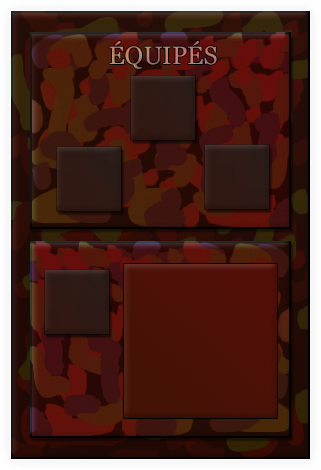
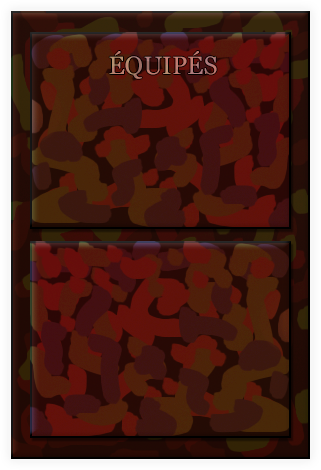
Inventaire amélioré et schlass de qualité
inventory mejorado and schlass muy guapo

diff --git a/core/src/utilities/AnimationTable.java b/core/src/utilities/AnimationTable.java
@@ -6,6 +6,7 @@ import com.badlogic.gdx.graphics.g2d.Batch;
 import com.badlogic.gdx.graphics.g2d.TextureRegion;
 import com.badlogic.gdx.scenes.scene2d.Actor;
 import com.badlogic.gdx.scenes.scene2d.ui.Image;
+import com.badlogic.gdx.scenes.scene2d.ui.Label;
 
 public class AnimationTable extends Actor {
 	
@@ -20,36 +21,69 @@ public class AnimationTable extends Actor {
 	float x, y;
 	
 	private int id;
-	private int borderWidth;
+	private int[] borderWidth = new int[4];
+	private boolean animated;
 	
 	public AnimationTable(Animation<?> anim) {
 		this.anim = anim;
 		this.id = 0;
 		frameTime = anim.getFrameDuration();
 		currentFrame = 0;
+		this.animated = true;
 	}
 	
 	public AnimationTable(String src_bg, Texture icon, int borderWidth) {
 		bg = new Texture(src_bg);
 		this.icon = icon;
 		id = 1;
-		this.borderWidth = borderWidth;
+		for (int i = 0; i < 4; i++) {
+			this.borderWidth[i] = borderWidth;
+		}
+		this.animated = false;
+	}
+	
+	public AnimationTable(String src_bg, Texture icon, int padLeft, int padBot, int padRight, int padTop) {
+		bg = new Texture(src_bg);
+		this.icon = icon;
+		id = 1;
+		this.borderWidth[0] = padLeft;
+		this.borderWidth[1] = padBot;
+		this.borderWidth[2] = padRight;
+		this.borderWidth[3] = padTop;
+		this.animated = false;
+	}
+	
+	public AnimationTable(Texture icon) {
+		this.bg = null;
+		this.icon = icon;
+		for (int i = 0; i < 4; i++) {
+			this.borderWidth[i] = 0;
+		}
+		this.animated = false;
 	}
 	
 	@Override
 	public void draw(Batch batch, float parentAlpha) {
-		if (id == 0 && anim.getKeyFrame(stateTime) != null)
+		if (animated && anim.getKeyFrame(stateTime) != null)
 			batch.draw((TextureRegion) anim.getKeyFrame(stateTime, true), super.getX(), super.getY(), super.getWidth(), super.getHeight());
-		else if (id == 1 && bg != null && icon != null) {
-			batch.draw(bg, super.getX(), super.getY(), super.getWidth(), super.getHeight());
-			batch.draw(icon, super.getX() + borderWidth, super.getY() + borderWidth, super.getWidth() - borderWidth*2, super.getHeight() - borderWidth*2);
-		}
-			
+		else if (!animated && icon != null) {
+			if (bg != null) {
+				batch.draw(bg, super.getX(), super.getY(), super.getWidth(), super.getHeight());
+				batch.draw(icon, super.getX() + borderWidth[0], super.getY() + borderWidth[1]
+						, super.getWidth() - borderWidth[0] - borderWidth[2], super.getHeight() - borderWidth[1] - borderWidth[3]);
+			}
+			else
+				batch.draw(icon, super.getX(), super.getY(), super.getWidth(), super.getHeight());
+		}	
 	}
 	
 	@Override
 	public void act (float delta) {
 		this.stateTime += delta;
+	}
+	
+	public void setIcon(Texture icon) {
+		this.icon = icon;
 	}
 	
 	public void setPos(float x, float y) {

diff --git a/core/src/utilities/Test.java b/core/src/utilities/Test.java
@@ -1,0 +1,44 @@
+package utilities;
+
+public class Test {
+	@SuppressWarnings("unchecked")
+	public Authentication getAuthentication(HttpServletRequest request) throws ParseException, BadJOSEException, JOSEException {
+	    String idToken = request.getHeader("Authorization");
+	    if (null == idToken) {
+	        //          throw new CognitoException(NO_TOKEN_FOUND,
+	        //                  CognitoException.NO_TOKEN_PROVIDED_EXCEPTION, 
+	        //                  "No token found in Http Authorization Header");
+	        System.out.println("No token found in Http Authorization Header");
+	    } else {
+	        idToken = extractAndDecodeJwt(idToken);
+	        JWTClaimsSet claimsSet = null;
+	        claimsSet = configurableJWTProcessor.process(idToken, null);
+	        if (!isIssuedCorrectly(claimsSet)) {
+	            //                  throw new CognitoException(INVALID_TOKEN,
+	            //                          CognitoException.INVALID_TOKEN_EXCEPTION_CODE, 
+	            //                          String.format("Issuer %s in JWT token doesn't match cognito idp %s", 
+	            //                                  claimsSet.getIssuer(),jwtConfiguration.getCognitoIdentityPoolUrl()));
+	            System.out.println("Issuer in JWT token doesn't match cognito idp");
+	        }
+
+	        if(!isIdToken(claimsSet)) {
+	            //                  throw new CognitoException(INVALID_TOKEN,
+	            //                          CognitoException.NOT_A_TOKEN_EXCEPTION, 
+	            //                          "JWT Token doesn't seem to be an ID Token");
+	            System.out.println("JWT Token doesn't seem to be an ID Token");
+	        }
+
+	        String username = claimsSet.getClaims()
+	                .get("cognito:username").toString();
+
+	        @SuppressWarnings("unchecked")
+	        List<String> groups = (List<String>) claimsSet.getClaims()
+	        .get("cognito:groups");
+	        List<String> grantedAuthorities = convertList(groups, group-> new 
+	                SimpleGrantedAuthority("ROLE_" + group.toUpperCase()));
+	        User user = new User(username, "", grantedAuthorities);
+
+	        return new CognitoJwtAuthentication(user, claimsSet, grantedAuthorities); // error here
+	    }
+	}
+}

diff --git a/core/src/world/GameMap.java b/core/src/world/GameMap.java
@@ -27,6 +27,9 @@ import entities.HitlerPoivrot;
 import entities.MalikLePretentieux;
 import entities.Player;
 import entities.monsters.MonstreVert1;
+import items.Clopes;
+import items.Grec;
+import items.SchlassCoursier;
 import menus.ChooseCharac;
 import menus.Inventory;
 import menus.Toolbar;
@@ -99,6 +102,7 @@ public abstract class GameMap {
 		Gdx.input.setInputProcessor(stage);
 		Entity.setStage(stage);
 		inventory = new Inventory(stage);
+		addFirstItems(inventory);
 		
 		//assMan = new GameAssetManager();
 		//assMan.queueAddImages();
@@ -184,11 +188,11 @@ public abstract class GameMap {
 			
 			if (Gdx.input.isKeyJustPressed(Keys.P)) // opens choose characters interface when you press I
 				choose_charac_open = false;
-			if (Gdx.input.isKeyJustPressed(Keys.O) && !upgrade_ents_open) {
+			if (Gdx.input.isKeyJustPressed(Keys.O) && !upgrade_ents_open && !inventory_open) {
 				upgrade_ents_open = true;
 				upgradeEnts = new UpgradeEnts(entities, played_entities);
 			}
-			if (Gdx.input.isKeyJustPressed(Keys.I)) {
+			if (Gdx.input.isKeyJustPressed(Keys.I) && !upgrade_ents_open && !inventory_open) {
 				inventory_open = true;
 				inventory.open(stage);
 			}
@@ -388,6 +392,14 @@ public abstract class GameMap {
 			}
 			regen_time = 0f;
 		}
+	}
+	
+	public void addFirstItems(Inventory inventory) {
+		inventory.addItem(new Clopes());
+		for (int i = 0; i < 15; i++) {
+			inventory.addItem(new Grec());
+		}
+		inventory.addItem(new SchlassCoursier());
 	}
 	
 }

diff --git a/core/src/items/ItemType.java b/core/src/items/ItemType.java
@@ -2,24 +2,29 @@ package items;
 
 public enum ItemType {
 	
-	GREC("Grec", 5, true, true, 1, 0), // (id, sellPrice, useInstant, consumable, rarity, category)
-	CANET("Canet", 1, true, true, 1, 0),
-	CLOPES("Clopes", 8, false, true, 1, 0);
+	GREC("Grec", 5, true, true, 1, false), // (id, sellPrice, useInstant, consumable, rarity, isEquipment)
+	CANET("Canet", 1, true, true, 1, false),
+	CLOPES("Clopes", 8, false, true, 1, false),
+	SCHLASS_COURSIER("Schlass du Coursier", 10, false, false, 2, true);
 	
 	private String id;
 	private int sellPrice, rarity;
-	private int category; // 1 for equipments, 0 for the rest
+	private boolean isEquipment; // 1 for equipments, 0 for the rest
 	
 
 	private boolean useInstant, consumable;
 	
-	private ItemType(String id, int sellPrice, boolean useInstant, boolean consumable, int rarity, int category) {
+	private ItemType(String id, int sellPrice, boolean useInstant, boolean consumable, int rarity, boolean isEquipment) {
 		this.id = id;
 		this.sellPrice = sellPrice;
 		this.useInstant = useInstant;
 		this.consumable = consumable;
 		this.rarity = rarity;
-		this.category = category;
+		this.isEquipment = isEquipment;
+	}
+	
+	public boolean isEquipment() {
+		return this.isEquipment;
 	}
 
 	public boolean isUseInstant() {

diff --git a/core/src/items/SchlassCoursier.java b/core/src/items/SchlassCoursier.java
@@ -1,0 +1,11 @@
+package items;
+
+public class SchlassCoursier extends Item{
+	
+	private static String srcIcon = "items/equipments/schlass_du_coursier.png";
+	
+	public SchlassCoursier() {
+		super(ItemType.SCHLASS_COURSIER, srcIcon);
+	}
+
+}

diff --git a/core/src/items/Clopes.java b/core/src/items/Clopes.java
@@ -9,5 +9,11 @@ public class Clopes extends Item {
 		super(ItemType.CLOPES, srcIcon);
 		this.nbClopes = 0;
 	}
+	
+	public void addClopes(int nb) {
+		nbClopes += nb;
+		if (nbClopes < 0)
+			nbClopes = 0;
+	}
 
 }

diff --git a/core/src/items/Grec.java b/core/src/items/Grec.java
@@ -1,0 +1,9 @@
+package items;
+
+public class Grec extends Item {
+	private static String srcIcon = "items/grec_icon.png";
+	
+	public Grec() {
+		super(ItemType.GREC, srcIcon);
+	}
+}
